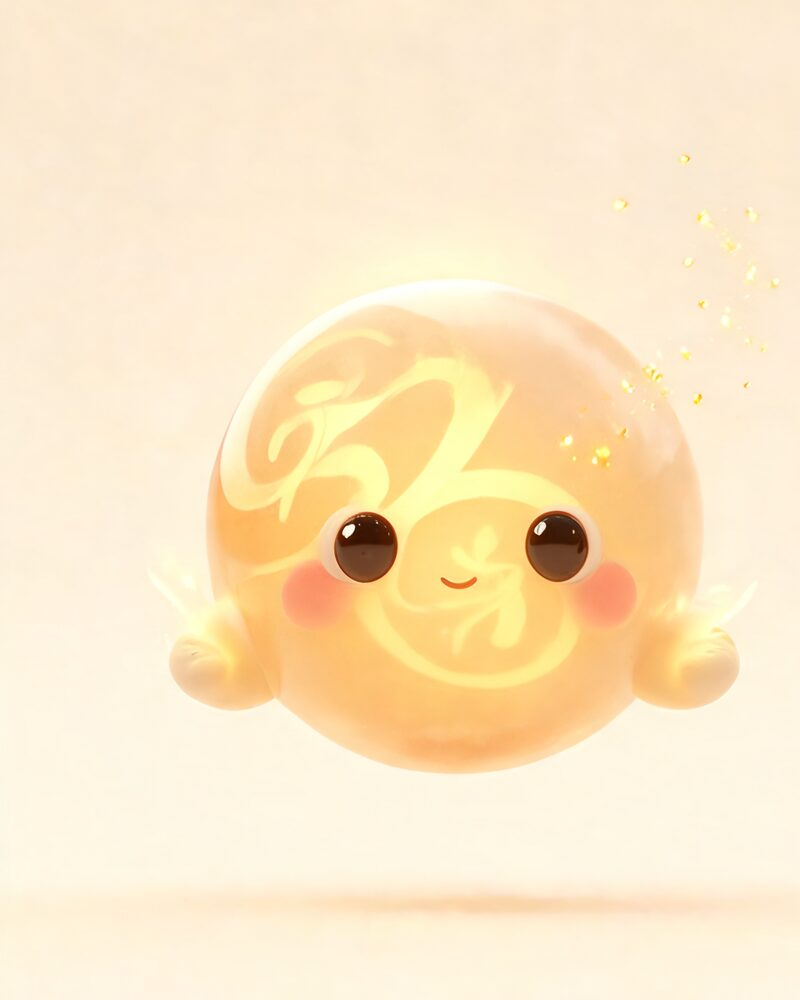
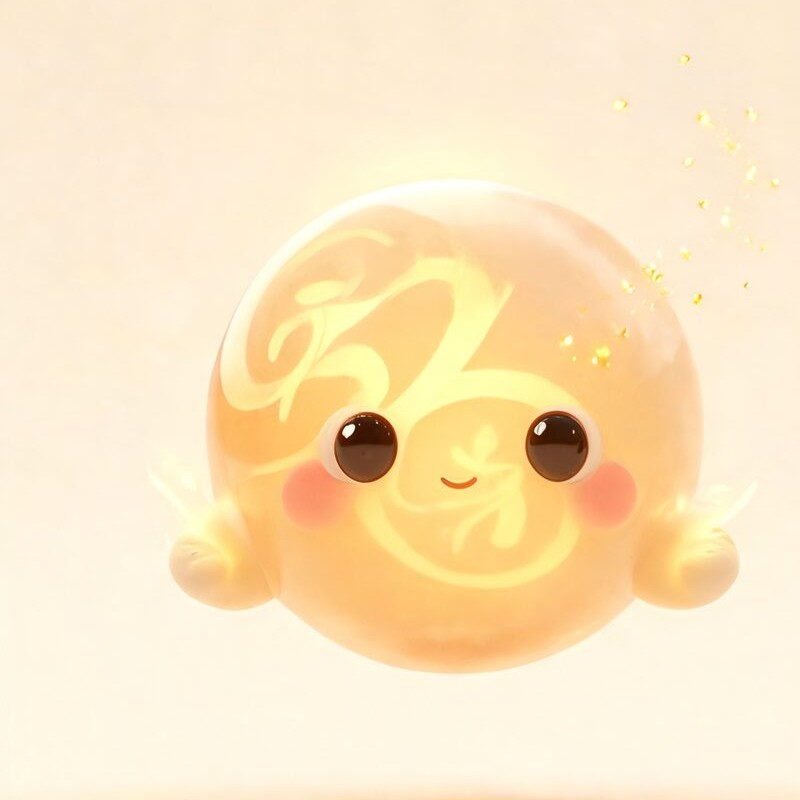
Improve mobile layout: 2x2 friends grid, hero image first, back to top
- Meet the friends shows a 2x2 grid on mobile (one row of four on desktop)
  with square, cover-fitted images and shorter captions
- Character images cropped square and trimmed of the pale side bands
  baked into the artwork
- Hero image sits above the title on mobile, a little smaller
- Footer gets a Back to top link

Claude-Session: https://claude.ai/code/session_0117ZqUjDU3GUoahhWYKBDM1

diff --git a/style.css b/style.css
@@ -153,12 +153,12 @@ a { color: var(--blue-dark); }
 
 .hero {
   background: linear-gradient(180deg, var(--blue-soft) 0%, var(--cream) 100%);
-  padding: 48px 0 40px;
+  padding: 28px 0 40px;
 }
 
 .hero-inner {
   display: grid;
-  gap: 32px;
+  gap: 24px;
   align-items: center;
 }
 
@@ -177,7 +177,11 @@ a { color: var(--blue-dark); }
 }
 
 .hero-image {
-  aspect-ratio: 4 / 3;
+  order: -1; /* picture first on mobile */
+  width: 85%;
+  max-width: 420px;
+  margin: 0 auto;
+  aspect-ratio: 16 / 9;
   box-shadow: var(--shadow);
 }
 
@@ -223,23 +227,37 @@ a { color: var(--blue-dark); }
   margin: 24px 0 0;
   padding: 0;
   display: grid;
-  gap: 24px;
+  grid-template-columns: repeat(2, 1fr);
+  gap: 14px;
 }
 
 .card {
   background: var(--cream);
-  border-radius: var(--radius);
-  padding: 16px 16px 8px;
+  border-radius: var(--radius-small);
+  padding: 10px 10px 4px;
   text-align: center;
 }
 
 .card-image {
   aspect-ratio: 1 / 1;
-  border-radius: var(--radius-small);
-  margin-bottom: 16px;
+  border-radius: 12px;
+  margin-bottom: 10px;
 }
 
-.card p { color: var(--ink-soft); }
+/* Square crop that fills the frame neatly */
+.card-image img {
+  aspect-ratio: 1 / 1;
+  object-fit: cover;
+  object-position: center;
+}
+
+.card h3 { font-size: 1.15rem; margin-bottom: 0.25em; }
+
+.card p {
+  color: var(--ink-soft);
+  font-size: 0.95rem;
+  line-height: 1.45;
+}
 
 .watch { background: var(--blue-soft); }
 
@@ -279,6 +297,14 @@ a { color: var(--blue-dark); }
 
 .footer p { margin: 0.2em 0; }
 
+.back-to-top {
+  display: inline-block;
+  margin-top: 12px;
+  padding: 10px 16px;
+  color: var(--blue-dark);
+  font-weight: 600;
+}
+
 /* Larger screens */
 
 @media (min-width: 560px) {
@@ -288,8 +314,6 @@ a { color: var(--blue-dark); }
     flex-wrap: wrap;
     justify-content: center;
   }
-
-  .cards { grid-template-columns: repeat(2, 1fr); }
 }
 
 @media (min-width: 900px) {
@@ -305,7 +329,22 @@ a { color: var(--blue-dark); }
 
   .books-text h2 { text-align: left; }
 
-  .cards { grid-template-columns: repeat(4, 1fr); }
+  .cards { grid-template-columns: repeat(4, 1fr); gap: 24px; }
+
+  .card { padding: 16px 16px 8px; border-radius: var(--radius); }
+
+  .card-image { border-radius: var(--radius-small); margin-bottom: 16px; }
+
+  .card h3 { font-size: 1.35rem; }
+
+  .card p { font-size: 1rem; }
+
+  .hero-image {
+    order: 0;
+    width: 100%;
+    max-width: none;
+    aspect-ratio: 16 / 9;
+  }
 
   .section { padding: 80px 0; }
 }

diff --git a/index.html b/index.html
@@ -26,7 +26,7 @@
   <link href="https://fonts.googleapis.com/css2?family=Fredoka:wght@500;600&family=Nunito:wght@400;600;700&display=swap" rel="stylesheet">
   <link rel="stylesheet" href="style.css">
 </head>
-<body>
+<body id="top">
   <a class="skip-link" href="#main">Skip to content</a>
 
   <header class="hero">
@@ -56,28 +56,28 @@
               <img class="spark-glow" src="images/spark.jpg" alt="Spark, a small, softly glowing amber orb" width="600" height="600" loading="lazy">
             </div>
             <h3>Spark</h3>
-            <p>A little glowing light born from words in an old library, curious and kind, and still learning about feelings.</p>
+            <p>A curious little light, still learning about feelings.</p>
           </li>
           <li class="card">
             <div class="img-frame card-image">
               <img src="images/lily.jpg" alt="Lily, a smiling six-year-old girl with brown curly hair in two buns" width="600" height="600" loading="lazy">
             </div>
             <h3>Lily</h3>
-            <p>A brave, playful six-year-old who is always ready for a gentle adventure with her friends.</p>
+            <p>Brave, playful and always ready for a gentle adventure.</p>
           </li>
           <li class="card">
             <div class="img-frame card-image">
               <img src="images/luna.jpg" alt="Luna, a soft grey plush bunny with long floppy ears" width="600" height="600" loading="lazy">
             </div>
             <h3>Luna</h3>
-            <p>Lily's soft grey bunny, who is perfect for cuddles and always there at bedtime.</p>
+            <p>Lily's soft grey bunny, perfect for bedtime cuddles.</p>
           </li>
           <li class="card">
             <div class="img-frame card-image">
               <img src="images/snowy.jpg" alt="Snowy, a friendly snowman standing quietly in a snowy garden" width="600" height="600" loading="lazy">
             </div>
             <h3>Snowy</h3>
-            <p>A quiet, friendly snowman in the garden who listens with a big, warm heart.</p>
+            <p>A quiet, friendly snowman with a big, warm heart.</p>
           </li>
         </ul>
       </div>
@@ -121,6 +121,7 @@
     <div class="wrap">
       <p>© Little Spark Stories</p>
       <p>Made with love and a little AI</p>
+      <p><a class="back-to-top" href="#top">Back to top ↑</a></p>
     </div>
   </footer>
 </body>

diff --git a/README.md b/README.md
@@ -23,4 +23,4 @@ And this one in the main (root) folder:
 
 Until an image is uploaded, a soft cream placeholder colour is shown in its place.
 
-Tips: landscape (4:3) works best for `hero.jpg` and `books.jpg`, square for the four character pictures, and around 1200×630 or larger for `hero.jpg` so shared links look sharp.
+Tips: landscape works best for `hero.jpg` (16:9) and `books.jpg` (4:3), and around 1200×630 or larger for `hero.jpg` so shared links look sharp. The four character pictures are shown as squares, so square images with the character centred work best – crop off any pale bands at the edges before uploading.
